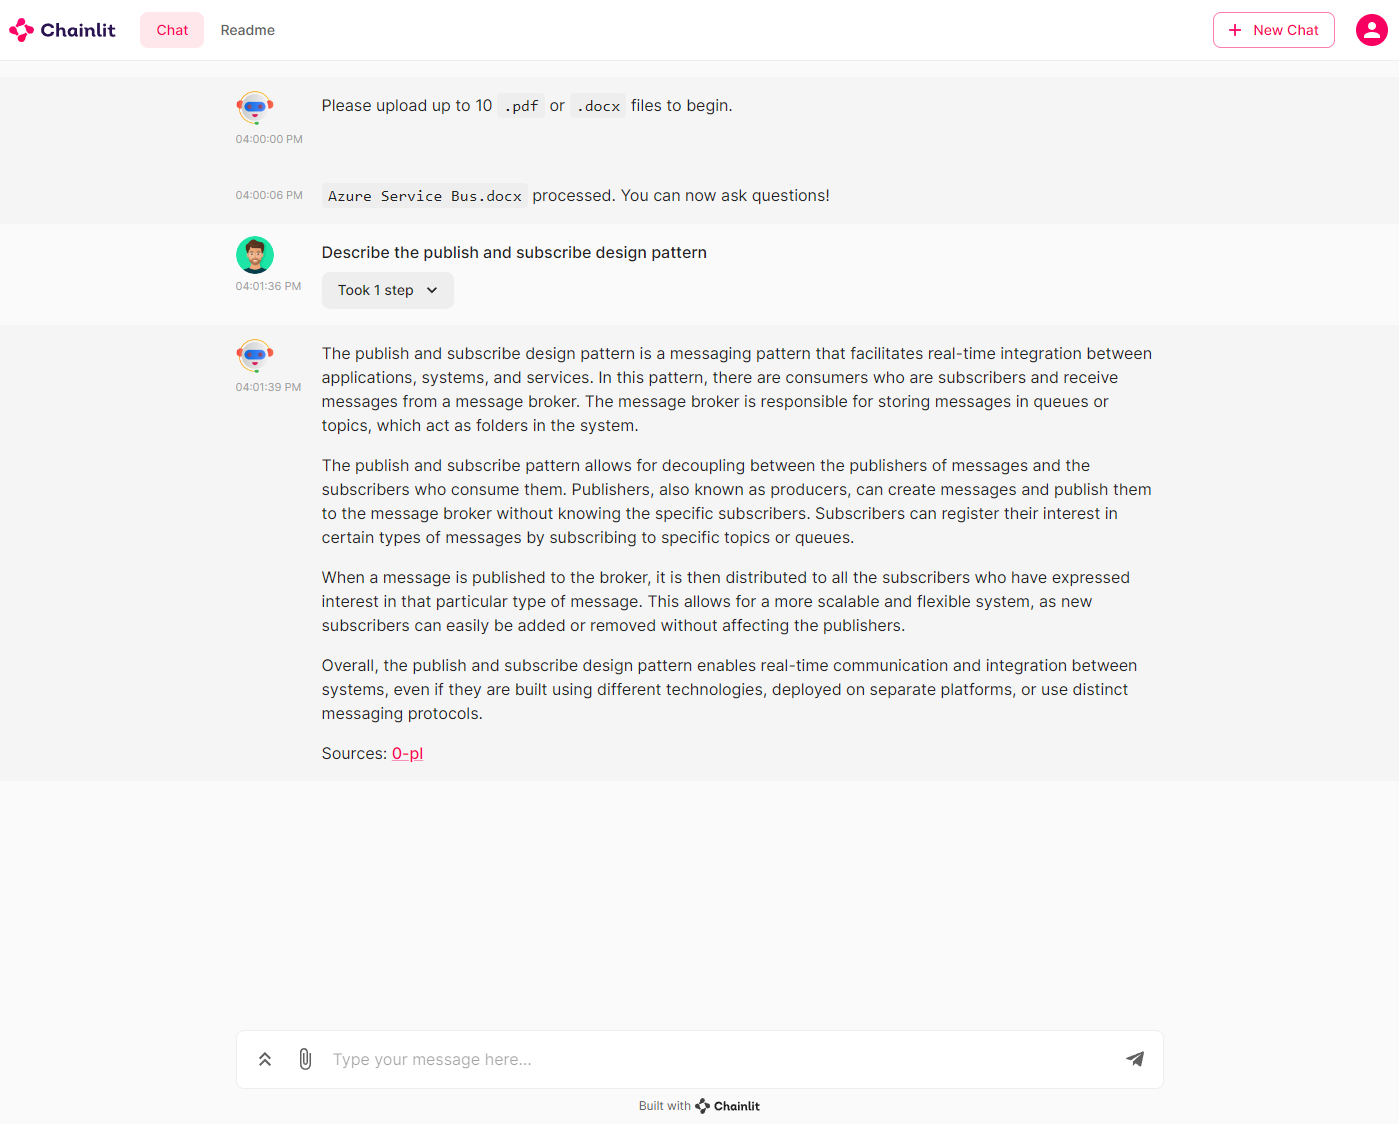
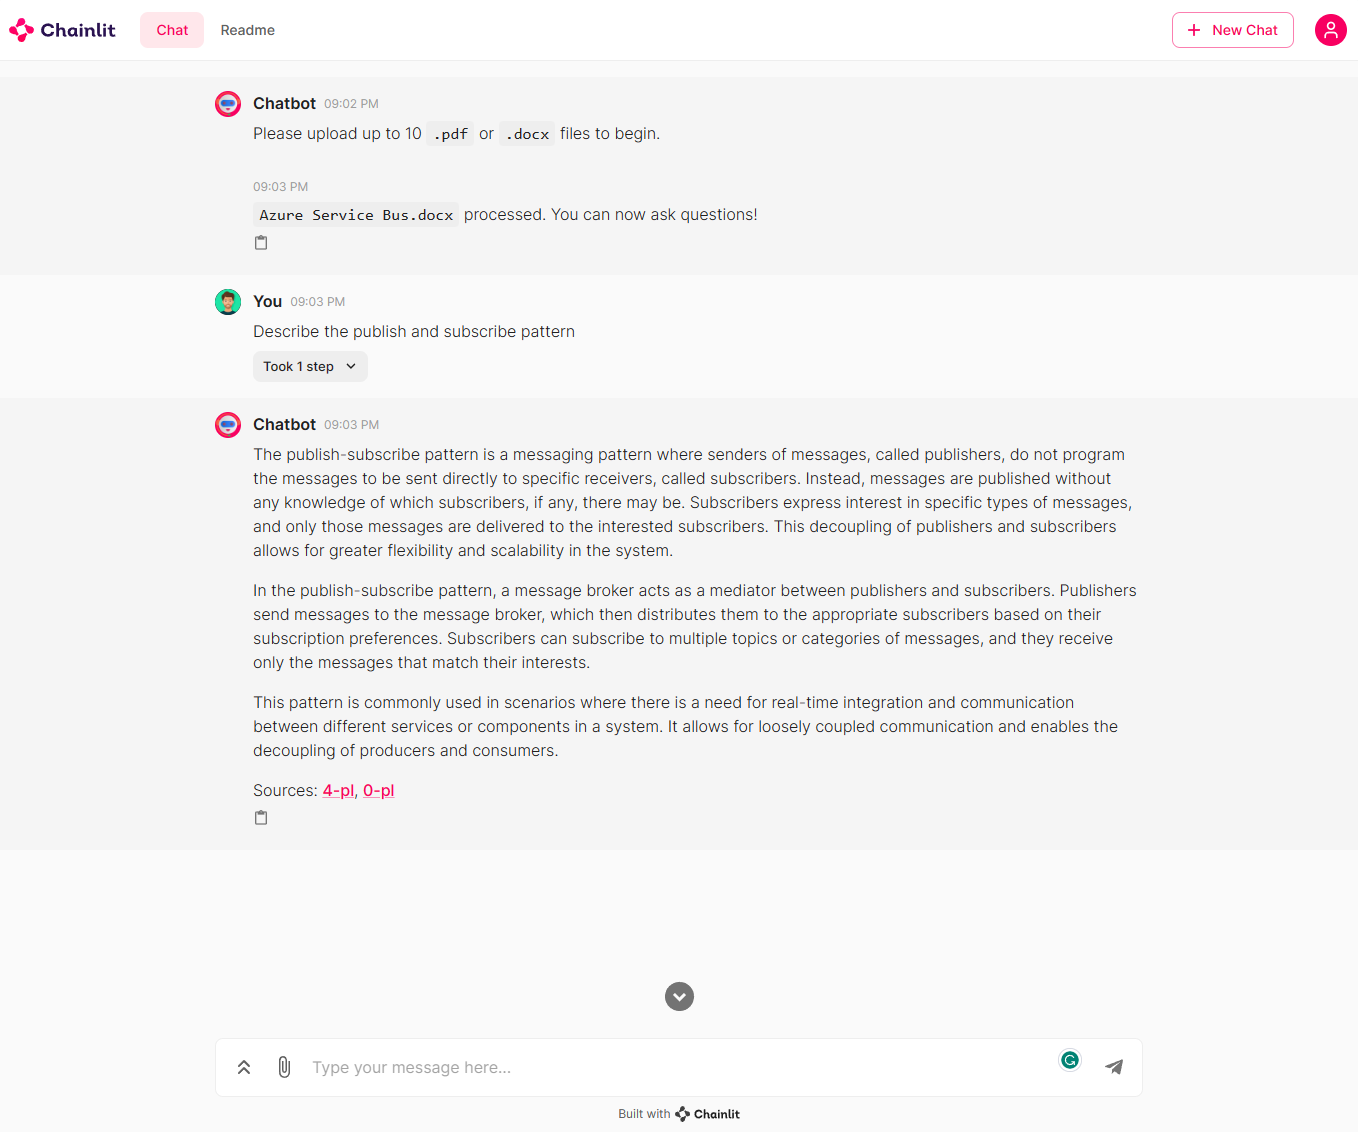
Changed files

diff --git a/scripts/docs.py b/scripts/docs.py
@@ -68,6 +68,8 @@ messages = [
 prompt = ChatPromptTemplate.from_messages(messages)
 chain_type_kwargs = {"prompt": prompt}
 
+# Configure OpenAI
+
 # Configure a logger
 logging.basicConfig(
     stream=sys.stdout,
@@ -99,7 +101,7 @@ async def start():
         name="Error", url="https://cdn-icons-png.flaticon.com/512/8649/8649595.png"
     ).send()
     await cl.Avatar(
-        name="User",
+        name="You",
         url="https://media.architecturaldigest.com/photos/5f241de2c850b2a36b415024/master/w_1600%2Cc_limit/Luke-logo.png",
     ).send()
 
@@ -135,8 +137,13 @@ async def start():
 
     # Process each file uplodaded by the user
     for file in files:
+        
+        # Read file contents
+        with open(file.path, "rb") as file:
+            file_contents = file.read()
+
         # Create an in-memory buffer from the file content
-        bytes = io.BytesIO(file.content)
+        bytes = io.BytesIO(file_contents)
 
         # Get file extension
         extension = file.name.split(".")[-1]

diff --git a/scripts/chat.py b/scripts/chat.py
@@ -56,6 +56,7 @@ logging.basicConfig(
     format="[%(asctime)s] {%(filename)s:%(lineno)d} %(levelname)s - %(message)s",
     level=logging.INFO,
 )
+
 logger = logging.getLogger(__name__)
 
 
@@ -68,7 +69,7 @@ async def start_chat():
         name="Error", url="https://cdn-icons-png.flaticon.com/512/8649/8649595.png"
     ).send()
     await cl.Avatar(
-        name="User",
+        name="You",
         url="https://media.architecturaldigest.com/photos/5f241de2c850b2a36b415024/master/w_1600%2Cc_limit/Luke-logo.png",
     ).send()
     cl.user_session.set(

diff --git a/README.md b/README.md
@@ -994,7 +994,7 @@ async def start_chat():
         name="Error", url="https://cdn-icons-png.flaticon.com/512/8649/8649595.png"
     ).send()
     await cl.Avatar(
-        name="User",
+        name="You",
         url="https://media.architecturaldigest.com/photos/5f241de2c850b2a36b415024/master/w_1600%2Cc_limit/Luke-logo.png",
     ).send()
     cl.user_session.set(
@@ -1116,7 +1116,7 @@ async def start_chat():
         name="Error", url="https://cdn-icons-png.flaticon.com/512/8649/8649595.png"
     ).send()
     await cl.Avatar(
-        name="User",
+        name="You",
         url="https://media.architecturaldigest.com/photos/5f241de2c850b2a36b415024/master/w_1600%2Cc_limit/Luke-logo.png",
     ).send()
     cl.user_session.set(
@@ -1175,7 +1175,7 @@ To see the text chunks that were used by the large language model to originate t
 
 ![Chainlit Source](images/chainlit-source.png)
 
-In the [Chain of Thought](https://docs.chainlit.io/concepts/chain-of-thought), below each message, you can find an `edit` button, as a bug icon, if that message was generated by a prompt. Clicking on it opens the [Prompt Playground](https://docs.chainlit.io/concepts/prompt-playground) dialog which allows you to modify and iterate on the prompt as needed.
+In the [Chain of Thought](https://docs.chainlit.io/concepts/chain-of-thought), below the step used to invoke the OpenAI chat completion API, you can find an `Inspect in prompt playgroung` icon. Clicking on it opens the [Prompt Playground](https://docs.chainlit.io/concepts/prompt-playground) dialog which allows you to modify and iterate on the prompt as needed.
 
 ![Chainlit Prompt Playground](./images/chainlit-prompt-playground.png)
 
@@ -1187,7 +1187,7 @@ You can then click and edit the user question.
 
 ![Chainlit Prompt Playground Question](./images/chainlit-prompt-playground-question.png)
 
-Then, you can click the submit button to test the effect of your changes, as shown in the following picture.
+Then, you can click the `Submit` button to test the effect of your changes, as shown in the following picture.
 
 ![Chainlit Prompt Playground Reply](./images/chainlit-prompt-playground-reply.png)
 
@@ -1345,7 +1345,7 @@ async def start_chat():
         url="https://cdn-icons-png.flaticon.com/512/8649/8649595.png"
     ).send()
     await cl.Avatar(
-        name="User",
+        name="You",
         url="https://media.architecturaldigest.com/photos/5f241de2c850b2a36b415024/master/w_1600%2Cc_limit/Luke-logo.png"
     ).send()
 ```
@@ -1399,8 +1399,12 @@ The following code processes each uploaded file by extracting its content.
     # Process each file uploaded by the user
     for file in files:
 
+       # Read file contents
+        with open(file.path, "rb") as file:
+            file_contents = file.read()
+
         # Create an in-memory buffer from the file content
-        bytes = io.BytesIO(file.content)
+        bytes = io.BytesIO(file_contents)
 
         # Get file extension
         extension = file.name.split('.')[-1]
@@ -1697,7 +1701,7 @@ async def start():
         name="Error", url="https://cdn-icons-png.flaticon.com/512/8649/8649595.png"
     ).send()
     await cl.Avatar(
-        name="User",
+        name="You",
         url="https://media.architecturaldigest.com/photos/5f241de2c850b2a36b415024/master/w_1600%2Cc_limit/Luke-logo.png",
     ).send()
 
@@ -1733,8 +1737,13 @@ async def start():
 
     # Process each file uplodaded by the user
     for file in files:
+        
+        # Read file contents
+        with open(file.path, "rb") as file:
+            file_contents = file.read()
+
         # Create an in-memory buffer from the file content
-        bytes = io.BytesIO(file.content)
+        bytes = io.BytesIO(file_contents)
 
         # Get file extension
         extension = file.name.split(".")[-1]
